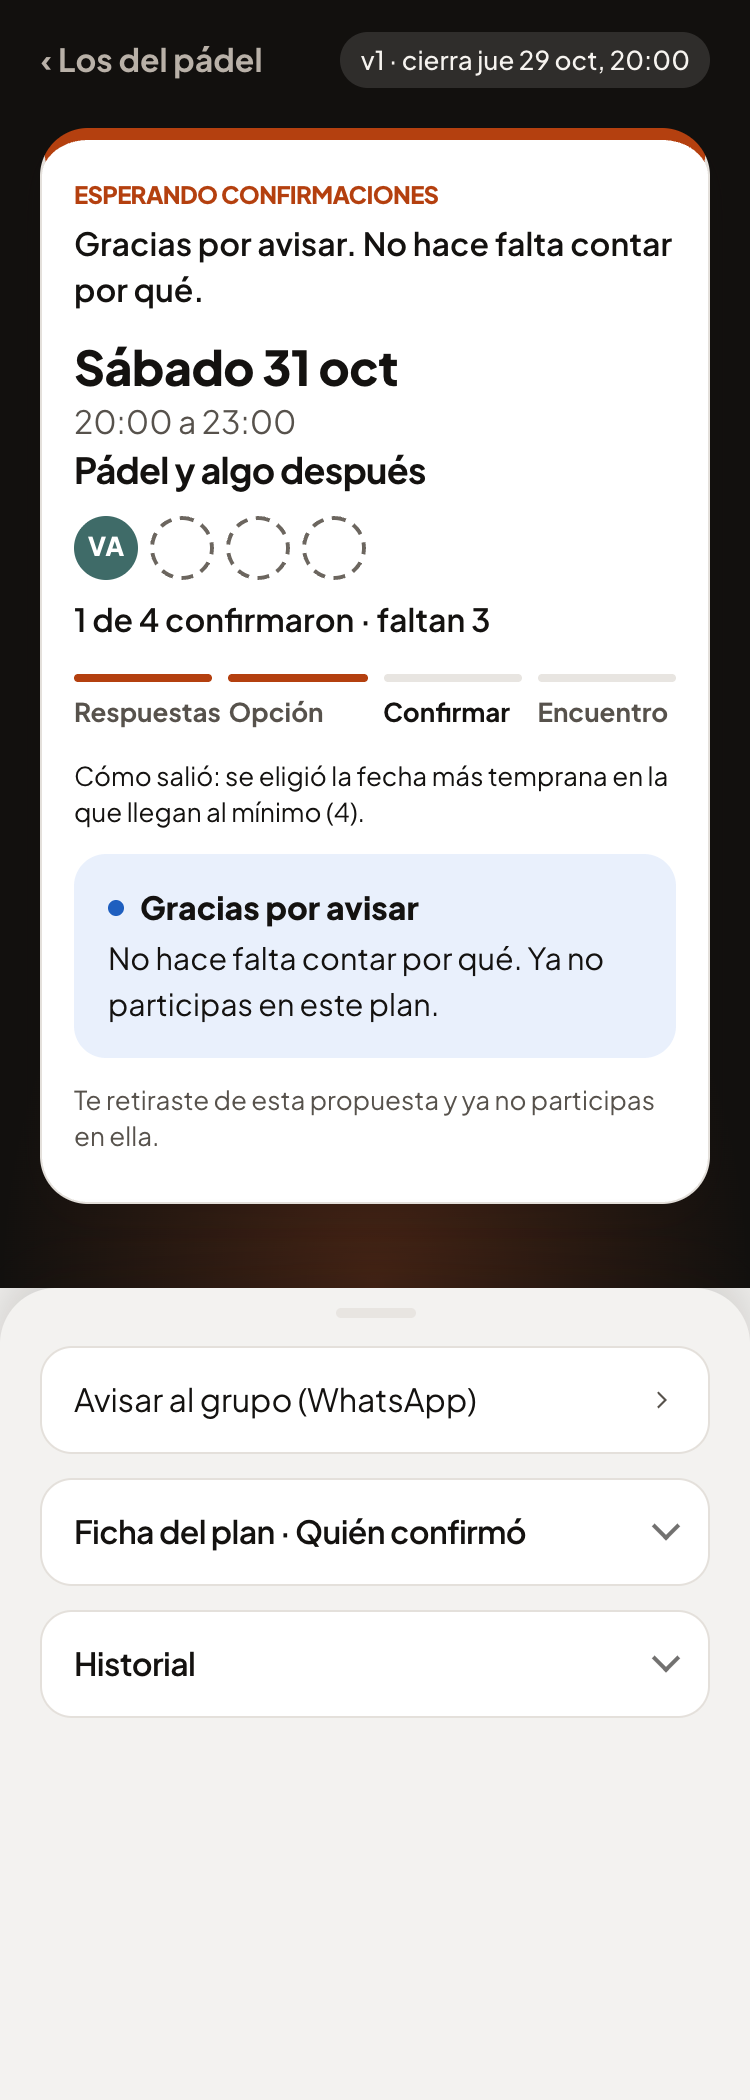
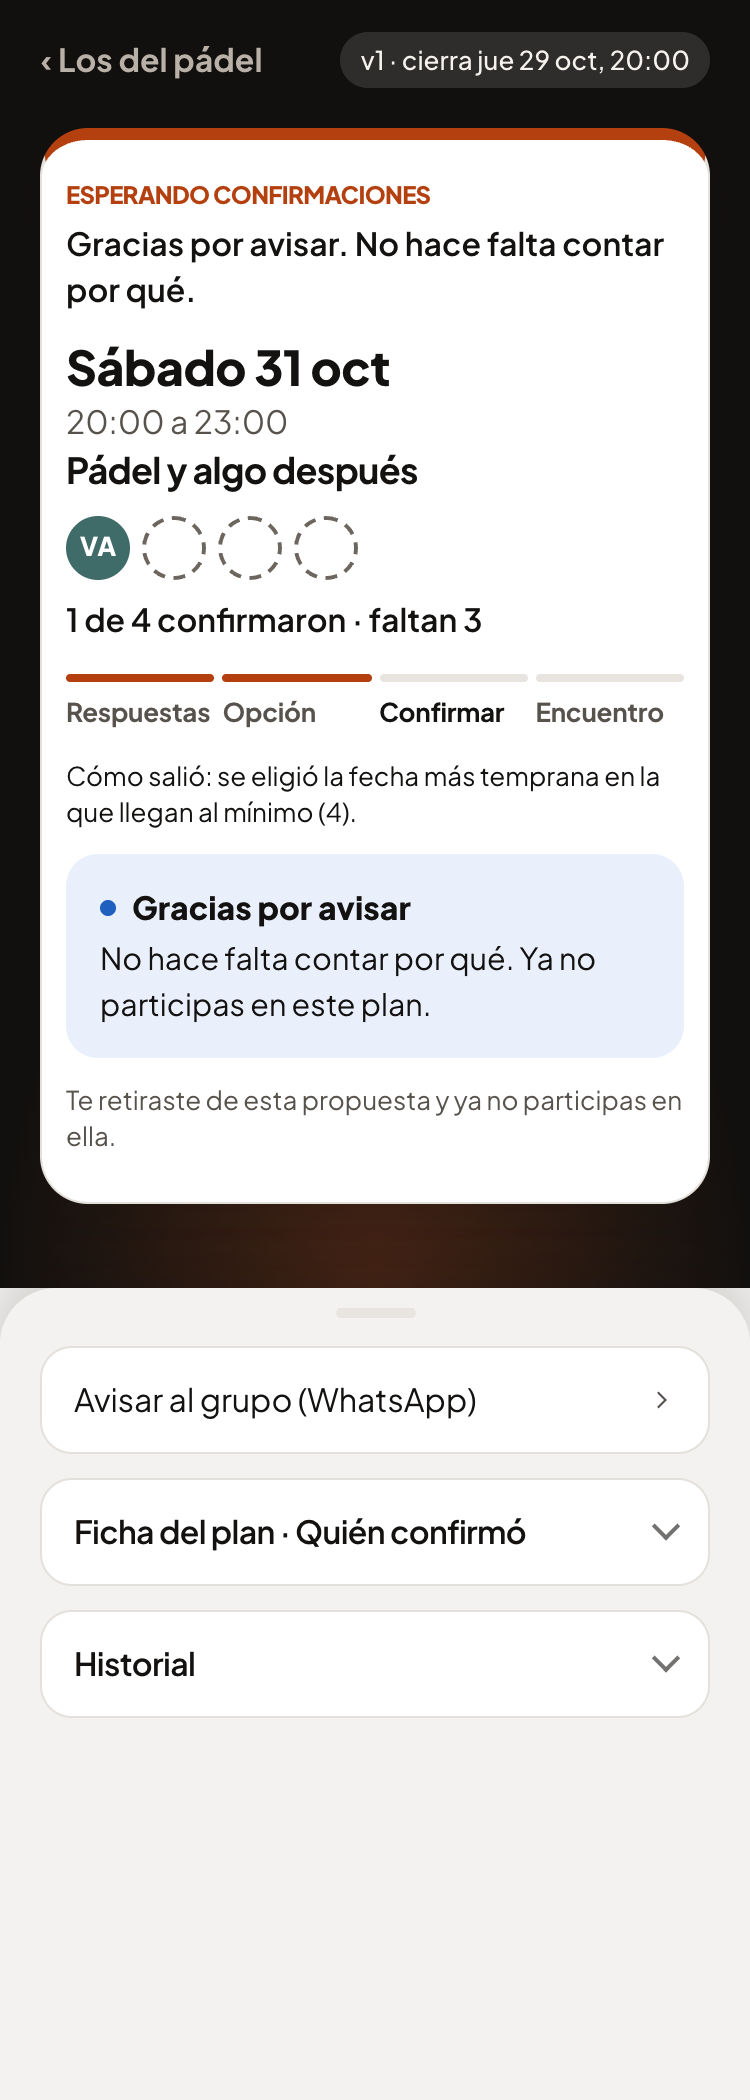
S4: las cuatro etapas en una fila a 375 px (370–399) como en el mockup; a 320 siguen de a dos para no cortar palabras

Changed region(s): [[0.092, 0.0619, 0.8893, 0.5262], [0.7053, 0.3095, 0.8893, 0.3714], [0.092, 0.4952, 0.2147, 0.5571]]

diff --git a/src/estilo/seccion-s4.css b/src/estilo/seccion-s4.css
@@ -564,3 +564,28 @@ a.fila:hover {
 :where(:root[data-theme='dark']) .resultado a.btn-turno {
   color: #1b0b03;
 }
+
+/* 370–399 px (375): las cuatro etapas en una fila, como en el mockup. vida.css las partía en dos filas porque «Respuestas»
+   y «Opción» se tocaban; con menos relleno en el bloque y rótulos de 13 px entran sin tocarse. A 320 px no entran sin cortar
+   palabras: ahí siguen de a dos por fila. */
+@media (min-width: 370px) and (max-width: 399px) {
+  #root .resultado {
+    padding-left: var(--e-3);
+    padding-right: var(--e-3);
+  }
+  #root .resultado .barra-accion {
+    margin-left: calc(-1 * var(--e-3));
+    margin-right: calc(-1 * var(--e-3));
+  }
+  #root .resultado-pasos.pasos {
+    grid-template-columns: repeat(4, minmax(0, 1fr));
+    column-gap: var(--e-1);
+    row-gap: 0;
+  }
+  #root .resultado-pasos .paso-texto {
+    font-size: var(--t-nota);
+    letter-spacing: -0.01em;
+    overflow-wrap: normal;
+    white-space: nowrap;
+  }
+}
